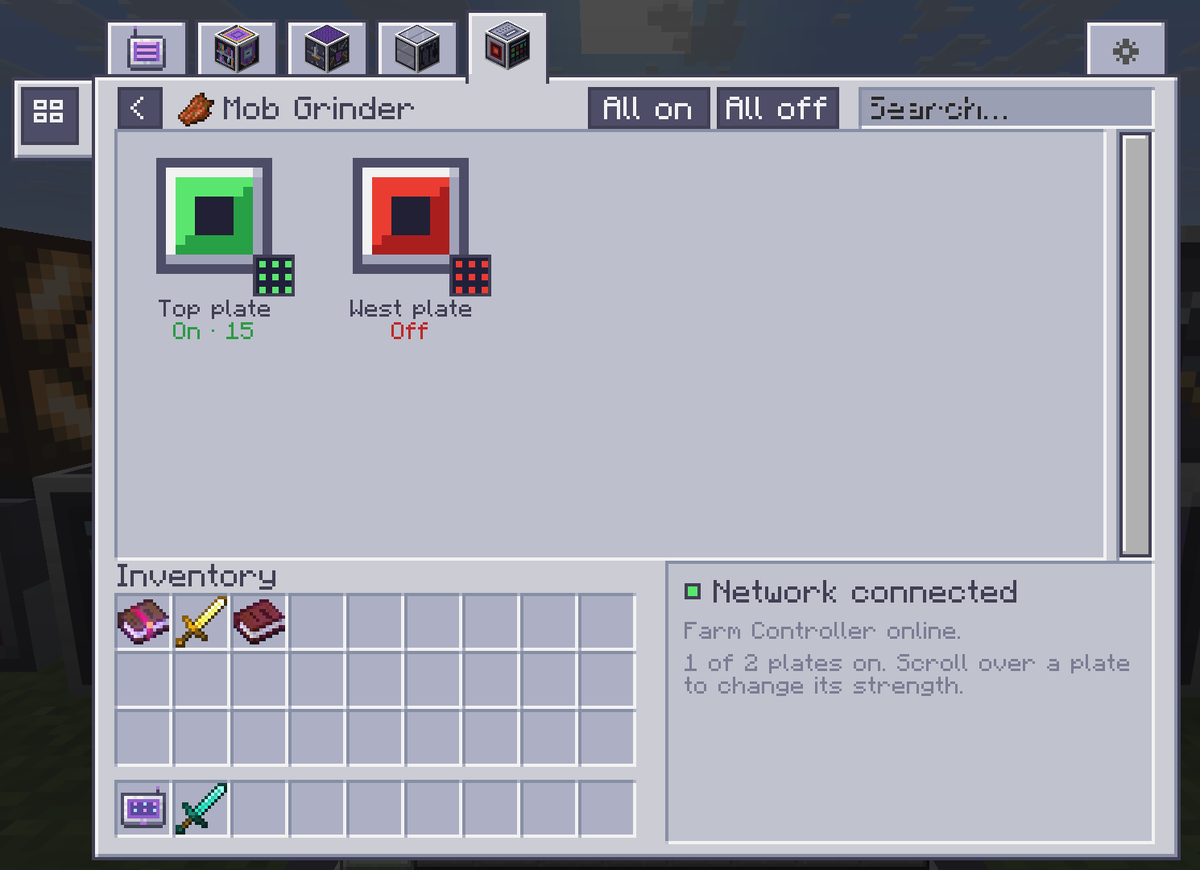
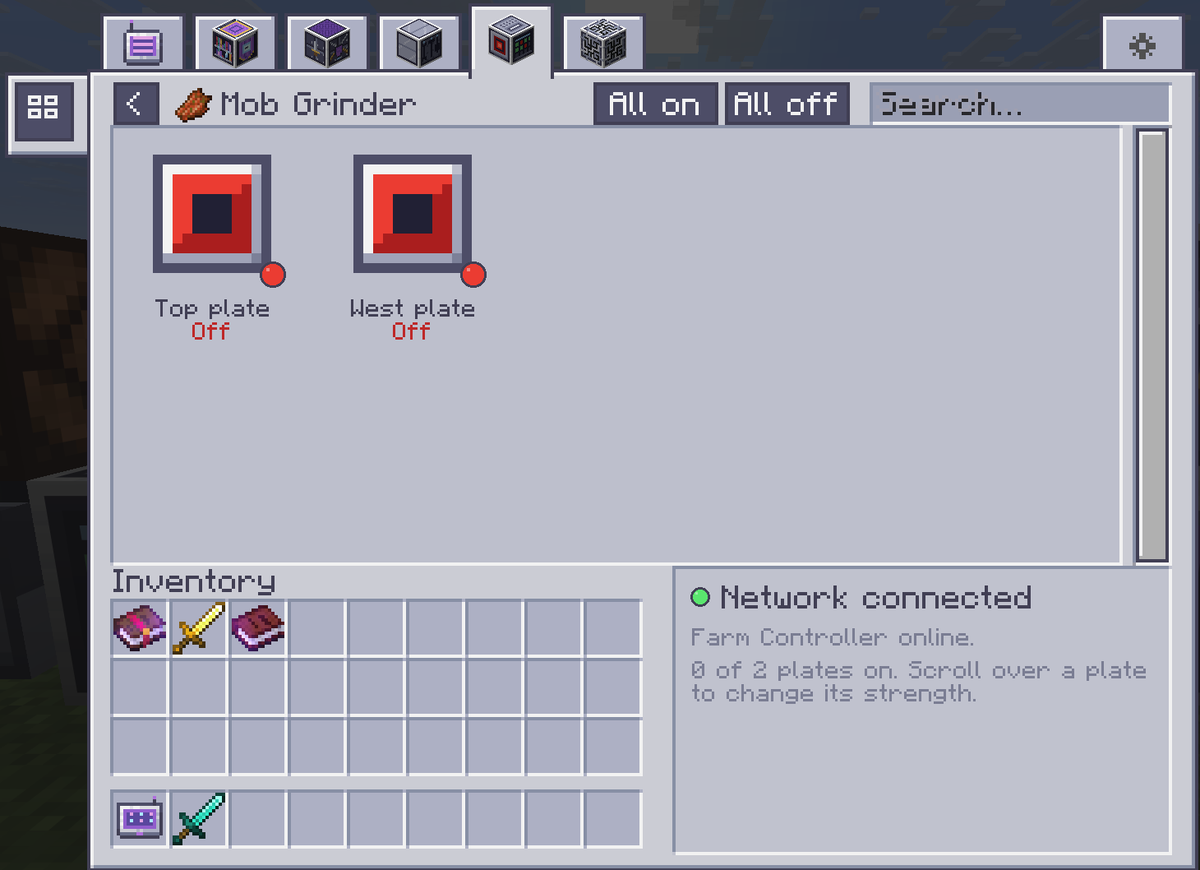
Replace 3x3 status badges with round green/red lights
Device kinds, farms, plates, device rows and the info card now all use a
small round light: green when working, red otherwise. README wording and
screenshots updated.

Claude-Session: https://claude.ai/code/session_016nHn3zyaCUZn4i7ndTWKcZ

Changed region(s): [[0.0, 0.0, 1.0, 1.0], [0.0, 0.5586, 0.0308, 0.5897]]

diff --git a/src/main/java/io/github/moosasharwaan/appliedquartermaster/client/TabletScreen.java b/src/main/java/io/github/moosasharwaan/appliedquartermaster/client/TabletScreen.java
@@ -652,15 +652,6 @@ public class TabletScreen extends AbstractContainerScreen<TabletMenu> {
         return String.format(Locale.ROOT, value >= 100 ? "%.0f" : "%.1f", value);
     }
 
-    private static int stateColor(int state) {
-        return switch (state) {
-            case DevicesViewPayload.ACTIVE -> 0xFF5AE66E;
-            case DevicesViewPayload.NO_CHANNEL -> 0xFFEB3C32;
-            case DevicesViewPayload.BOOTING -> 0xFFE8B53A;
-            default -> 0xFF46445A;
-        };
-    }
-
     private static String stateKey(int state) {
         return switch (state) {
             case DevicesViewPayload.ACTIVE -> "active";
@@ -733,8 +724,7 @@ public class TabletScreen extends AbstractContainerScreen<TabletMenu> {
         g.pose().scale(3, 3);
         g.item(e.icon(), 0, 0);
         g.pose().popMatrix();
-        int badge = e.active() == e.count() ? 0xFF5AE66E : e.active() == 0 ? 0xFF46445A : 0xFFEB3C32;
-        badge(g, ix + 36, iy + 36, badge);
+        dot(g, ix + 42.5f, iy + 42.5f, 8, e.active() == e.count());
         smallLines(g, e.name(), cx + CELL_W[s] / 2, iy + 50, CELL_W[s] - 2, 1, TEXT);
         int offline = e.count() - e.active();
         var sub = offline == 0
@@ -758,8 +748,7 @@ public class TabletScreen extends AbstractContainerScreen<TabletMenu> {
         // State chip
         var state = Component.translatable("gui.appliedquartermaster.devices.state." + stateKey(e.state())).getString();
         int chipX = cx + 150;
-        g.fill(chipX, cy + 5, chipX + 6, cy + 11, OUTLINE);
-        g.fill(chipX + 1, cy + 6, chipX + 5, cy + 10, stateColor(e.state()));
+        dot(g, chipX + 3, cy + 8, 6, e.state() == DevicesViewPayload.ACTIVE);
         g.text(font, state, chipX + 9, cy + 6, TEXT, false);
         String right = (e.channels() > 0 ? e.channels() + " ch · " : "") + formatAe(e.power()) + " AE/t";
         g.text(font, right, cx + CELL_W[SIZE_LIST] - 6 - font.width(right), cy + 6, TEXT_DIM, false);
@@ -922,11 +911,9 @@ public class TabletScreen extends AbstractContainerScreen<TabletMenu> {
                     g.item(e.icon(), 0, 0);
                 }
                 g.pose().popMatrix();
-                // Status badge: green running, red off, dark offline.
-                int badge = inFarm
-                        ? (e.state() == 2 ? 0xFF5AE66E : e.state() == 1 ? 0xFFEB3C32 : 0xFF46445A)
-                        : (e.state() == 0 ? 0xFF46445A : e.on() > 0 ? 0xFF5AE66E : 0xFFEB3C32);
-                badge(g, ix + 36, iy + 36, badge);
+                // Status light: green when running, red when off or offline.
+                boolean good = inFarm ? e.state() == 2 : e.state() != 0 && e.on() > 0;
+                dot(g, ix + 42.5f, iy + 42.5f, 8, good);
                 smallLines(g, e.name(), cx + CELL_W[s] / 2, iy + 50, CELL_W[s] - 2, 1, TEXT);
                 Component sub;
                 int color;
@@ -1010,9 +997,7 @@ public class TabletScreen extends AbstractContainerScreen<TabletMenu> {
         inset(g, cx, cy, cw, ch, 0xFFC0C2CE);
         String message = statusMessage();
         boolean ok = message == null;
-        int dot = ok ? 0xFF5AE66E : 0xFFEB3C32;
-        g.fill(cx + 6, cy + 7, cx + 11, cy + 12, OUTLINE);
-        g.fill(cx + 7, cy + 8, cx + 10, cy + 11, dot);
+        dot(g, cx + 8.5f, cy + 9.5f, 6, ok);
         g.text(font, Component.translatable(ok ? "gui.appliedquartermaster.info.connected" : "gui.appliedquartermaster.info.not_connected"),
                 cx + 15, cy + 6, TEXT, false);
         var lines = new ArrayList<Component>();
@@ -1092,12 +1077,29 @@ public class TabletScreen extends AbstractContainerScreen<TabletMenu> {
         g.text(font, label, x + (w - font.width(label)) / 2, y + 3, 0xFFF2F2F2, false);
     }
 
-    private static void badge(GuiGraphicsExtractor g, int x, int y, int color) {
-        g.fill(x, y, x + 13, y + 13, OUTLINE);
-        g.fill(x + 1, y + 1, x + 12, y + 12, 0xFF21203A);
-        for (int gx = 0; gx < 3; gx++) {
-            for (int gy = 0; gy < 3; gy++) {
-                g.fill(x + 2 + gx * 4, y + 2 + gy * 4, x + 3 + gx * 4 + 1, y + 3 + gy * 4 + 1, color);
+    private static final int LIGHT_GREEN = 0xFF5AE66E;
+    private static final int LIGHT_RED = 0xFFEB3C32;
+
+    /** A round status light: green when ok, red otherwise. Drawn at quarter-pixel resolution so it looks round. */
+    private static void dot(GuiGraphicsExtractor g, float centerX, float centerY, float diameter, boolean ok) {
+        g.pose().pushMatrix();
+        g.pose().translate(centerX, centerY);
+        g.pose().scale(0.25f, 0.25f);
+        int outer = Math.round(diameter * 2);
+        circle(g, outer, OUTLINE);
+        circle(g, outer - 3, ok ? LIGHT_GREEN : LIGHT_RED);
+        // Small highlight so it reads as a light
+        int h = Math.max(2, outer / 4);
+        g.fill(-outer / 2, -outer / 2, -outer / 2 + h, -outer / 2 + h, 0x66FFFFFF);
+        g.pose().popMatrix();
+    }
+
+    private static void circle(GuiGraphicsExtractor g, int radius, int color) {
+        for (int y = -radius; y < radius; y++) {
+            double dy = y + 0.5;
+            int half = (int) Math.round(Math.sqrt(Math.max(0, radius * radius - dy * dy)));
+            if (half > 0) {
+                g.fill(-half, y, half, y + 1, color);
             }
         }
     }

diff --git a/README.md b/README.md
@@ -125,7 +125,7 @@ grouped by kind, much like AE2's Network Status screen, but you can look inside 
 
 ![The Devices tab](docs/screenshots/tab_devices.png)
 
-* Each kind shows its icon, how many there are, and a status badge: green when all are working, red when some are
+* Each kind shows its icon, how many there are, and a status light: green when all are working, red when any are
   offline (the count of offline ones is shown).
 * The info card on the right shows the network's stored energy as a bar, the energy figures, power use and gain, and
   whether the ME Controller is online with how many channels are in use.
@@ -223,7 +223,7 @@ The **Automation** tab appears when a Farm Controller is on your network.
 | Anywhere | Sneak-right-click | Clears the icon |
 | With JEI | Drag an item from JEI onto a farm or plate | Uses it as the icon |
 
-Each farm has a **status badge**: green when running, red when everything is off, dark when offline. Plates without
+Each farm has a **status light**: green when running, red when everything is off or the farm is offline. Plates without
 their own icon show their light ring in its current colour. New plates are named after the side they face ("Top plate",
 "West plate").
 
